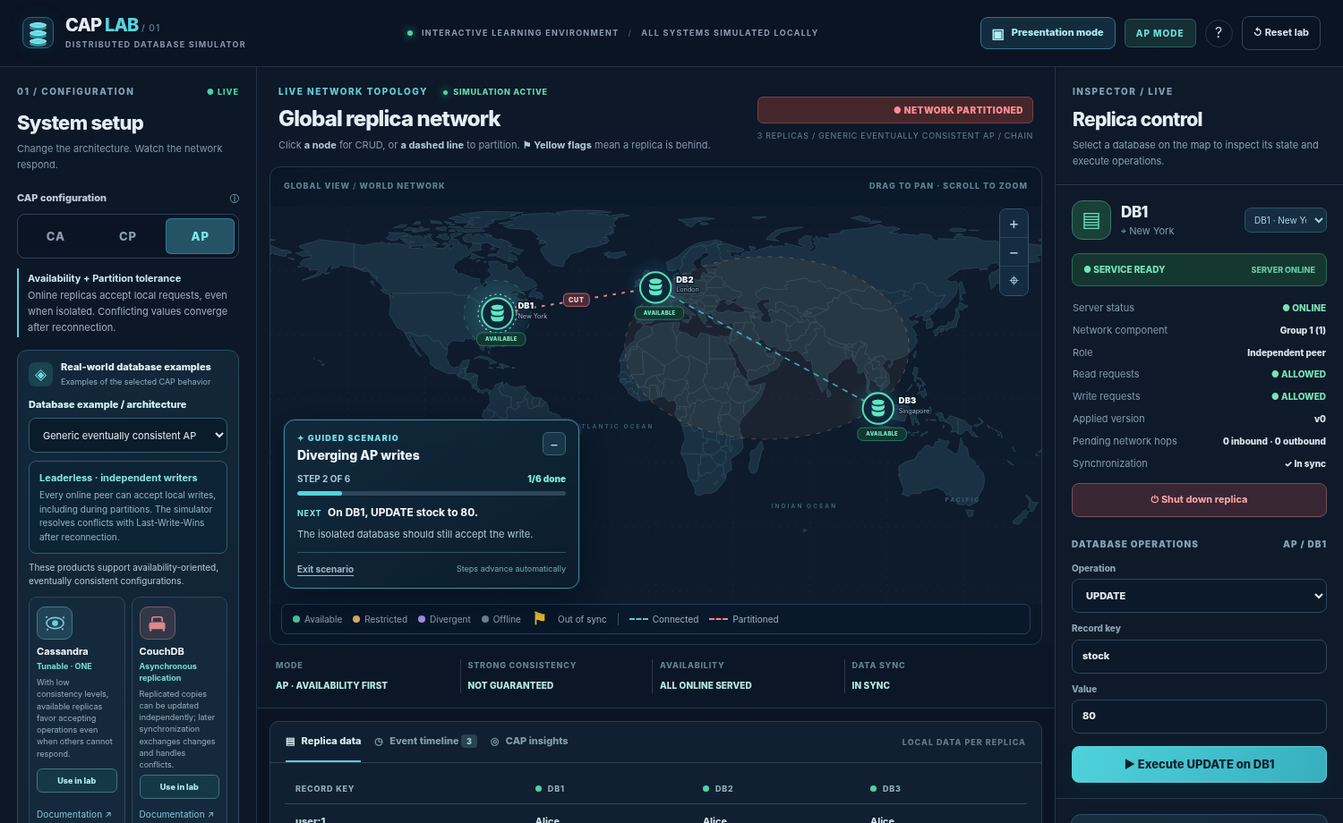
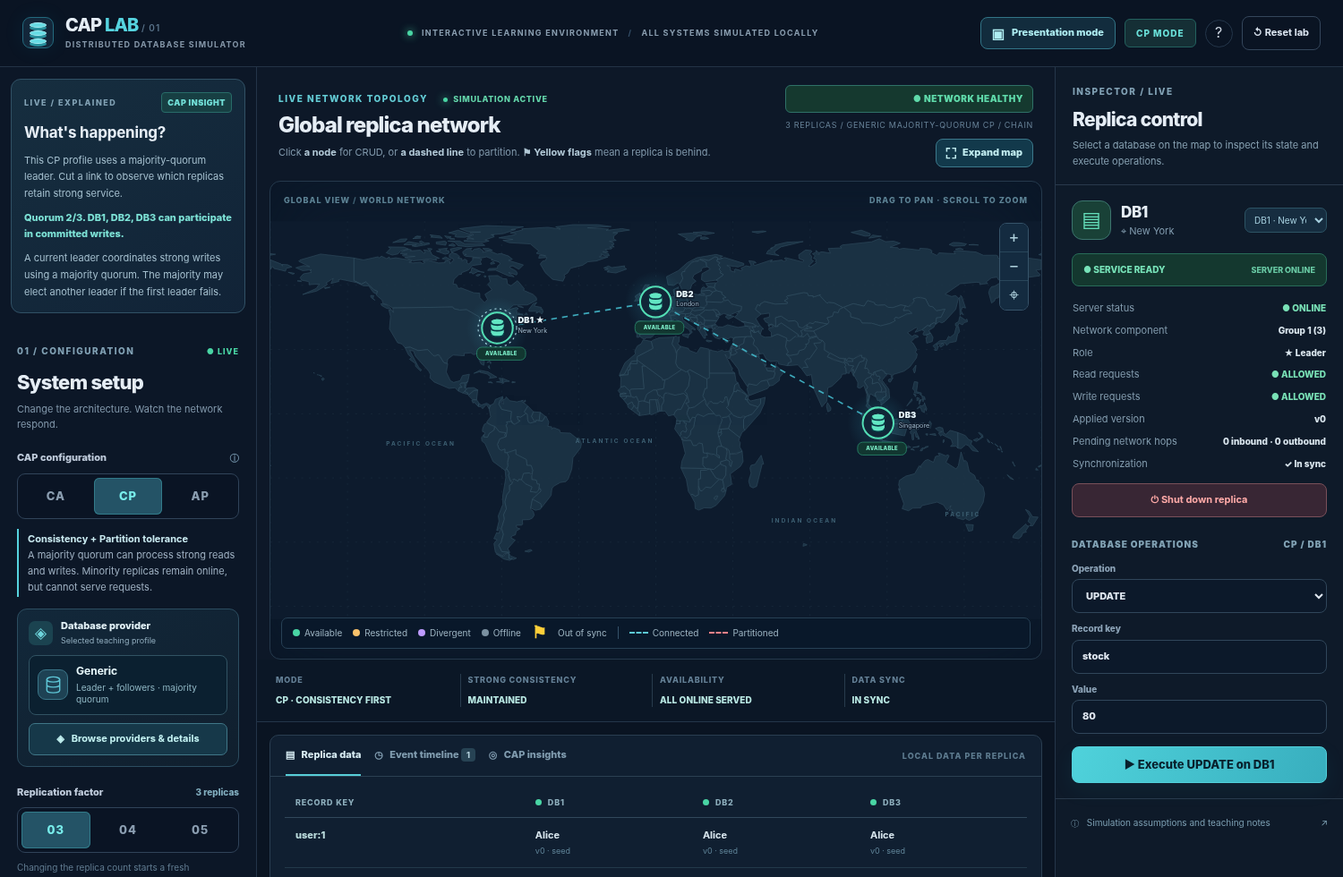
Add files via upload

diff --git a/index.html b/index.html
@@ -155,7 +155,7 @@ body.is-presentation .live-stat strong{font-size:12px}
 a.provider-docs{font-size:10px;color:#84c6db;text-decoration:none}
 a.provider-docs:hover{text-decoration:underline}
 
-/* Guided scenarios are selectable in Presentation Mode. */
+/* v6 — Guided scenarios are selectable in Presentation Mode. */
 .presentation-scenario-controls{display:flex;align-items:center;gap:9px;flex-wrap:wrap;padding-left:12px;border-left:1px solid #31495d}
 .presentation-scenario-controls label{font-size:10px;color:#92b4c6;font-weight:800;letter-spacing:.7px;white-space:nowrap}
 .presentation-scenario-controls .presentation-scenario-select{width:202px;max-width:48vw;min-height:35px;font-size:11px;padding:7px 9px;background:#091827}
@@ -188,7 +188,7 @@ a.provider-docs:hover{text-decoration:underline}
 @media(max-width:460px){.presentation-scenario-controls .presentation-scenario-select{min-width:120px}.presentation-scenario-controls .presentation-scenario-start{padding-left:9px;padding-right:9px}.map-scenario-guide{bottom:65px;max-height:calc(100% - 95px)}}
 @media(prefers-reduced-motion:reduce){.map-guide-track span{transition:none}}
 
-/* Compact, functional provider picker in Presentation Mode. */
+/* v6 — Compact, functional provider picker in Presentation Mode. */
 .presentation-provider-controls{
   display:flex;align-items:center;gap:13px;width:100%;min-width:0;
   padding-top:10px;border-top:1px solid #2c4558;
@@ -219,17 +219,83 @@ a.provider-docs:hover{text-decoration:underline}
   .presentation-provider-items{width:100%;flex-wrap:nowrap;overflow-x:auto;padding-bottom:5px;scrollbar-width:thin}
   .presentation-provider-item{flex:none}
 }
+
+/* Compact provider summary in Exploration; detailed information is shown only on request. */
+.provider-compact{margin-top:13px;padding:12px;}
+.provider-compact .provider-heading{margin-bottom:10px}
+.provider-current{display:flex;align-items:center;gap:9px;padding:9px;border:1px solid #315363;border-radius:8px;background:#0b2030;min-width:0}
+.provider-current-icon{display:flex;flex:none}.provider-current-icon .provider-icon{width:34px;height:34px;min-width:34px;margin:0}
+.provider-current .provider-fallback{height:23px;width:23px}
+.provider-current .provider-logo{width:25px;height:25px;inset:4px}
+.provider-current-copy{min-width:0;flex:1;line-height:1.35}
+.provider-current-copy strong{display:block;font-size:12px;color:#e8f8fb}
+.provider-current-copy span{display:block;font-size:10px;color:#8fb6c3;margin-top:3px;overflow-wrap:anywhere}
+.provider-open-btn{display:block;width:100%;margin-top:9px;min-height:36px;padding:9px 10px;font-size:11px;font-weight:750;text-align:center;border:1px solid #407788;background:#163849;color:#c3f2f2;border-radius:7px;cursor:pointer}
+.provider-open-btn:hover,.presentation-provider-details:hover{background:#21566a;color:#fff;border-color:#66c7d1}
+.presentation-provider-details{flex:none;border:1px solid #3b7889;background:#143748;color:#b6e6ee;border-radius:8px;min-height:36px;padding:6px 11px;font-size:11px;font-weight:800;cursor:pointer}
+.provider-dialog{max-width:840px;max-height:min(88vh,900px);overflow-y:auto;width:calc(100vw - 26px)}
+.provider-dialog-inner{padding:24px}
+.provider-dialog .modal-heading{position:sticky;top:-24px;z-index:2;margin:-24px -24px 15px;padding:15px 24px;background:#112236;border-bottom:1px solid #345467}
+.provider-dialog h2{margin:0 0 6px;font-size:24px}
+.provider-dialog .provider-dialog-intro{margin:0 0 12px}
+.provider-dialog .architecture-note{margin-bottom:17px}
+.provider-dialog-subheading{display:flex;gap:10px;align-items:center;margin-bottom:12px;color:#adccdb;font-size:11px;font-weight:700}
+.provider-dialog .provider-grid{grid-template-columns:repeat(2,minmax(0,1fr));gap:11px}
+.provider-dialog .provider-card{padding:13px;gap:5px}
+.provider-dialog .provider-card strong{font-size:13px}
+.provider-dialog .provider-card-desc{font-size:11px;line-height:1.52;flex:1}
+.provider-dialog .provider-tag{font-size:10px}
+.provider-dialog .provider-card-actions{display:flex;align-items:center;justify-content:space-between;gap:11px;width:100%;padding-top:8px;margin-top:auto;flex-wrap:wrap}
+.provider-dialog .provider-choose{width:auto;min-height:34px;margin:0;padding:8px 10px;font-size:11px}
+.provider-dialog .provider-docs{font-size:11px;white-space:nowrap;margin:0;padding:4px 0}
+.provider-dialog .provider-unavailable{margin:0}
+/* Keep the explanation at the very top of Exploration's left control panel. */
+.left-sidebar>.insight-panel{margin:13px 12px 15px;padding:14px}
+.left-sidebar>.insight-panel h3{font-size:17px}
+.left-sidebar>.insight-panel .eyebrow{font-size:9px}
+/* Map can temporarily fill the viewport in either teaching mode; the lab state is untouched. */
+.map-expand-btn{display:inline-flex;align-items:center;justify-content:center;gap:7px;margin-top:9px;padding:7px 11px;border-radius:8px;border:1px solid #3c788b;background:#12394b;color:#c4eff2;font-size:11px;font-weight:800;cursor:pointer}
+.map-expand-btn:hover{background:#21566a;border-color:#64cfdd}
+.map-expand-btn span:first-child{font-size:16px;line-height:1}
+body.map-expanded{overflow:hidden}
+body.map-expanded .map-panel{position:fixed;inset:10px;z-index:100;display:flex;flex-direction:column;overflow:auto;border:1px solid #4d8092;border-radius:12px;box-shadow:0 0 0 200vmax rgba(0,5,13,.76),0 20px 85px rgba(0,0,0,.8)}
+body.map-expanded .map-panel .map-header{flex:none}
+body.map-expanded .map-panel .presentation-toolbar{display:none!important}
+body.map-expanded .map-stage,body.map-expanded.is-presentation .map-stage{height:auto!important;min-height:235px!important;flex:1 1 auto;margin-bottom:0}
+body.map-expanded .live-strip{flex:none}
+@media(max-width:760px){
+  .provider-dialog-inner{padding:15px}
+  .provider-dialog .modal-heading{top:-15px;margin:-15px -15px 13px;padding:13px 15px}
+  .provider-dialog .provider-grid{grid-template-columns:1fr}
+  .provider-dialog h2{font-size:21px}
+  body.map-expanded .map-panel{inset:5px}
+  body.map-expanded .map-panel .map-header{padding:11px 12px}
+  body.map-expanded .map-panel .map-header h1{font-size:21px}
+  body.map-expanded .map-stage{margin:0 5px}
+}
+@media(max-width:1130px){
+  .map-header{flex-wrap:wrap}
+  .map-header-meta{display:flex;width:100%;gap:8px;align-items:center;justify-content:space-between;text-align:left;flex-wrap:wrap}
+  .map-header-meta .map-expand-btn{margin-top:0}
+}
+@media(max-width:760px){
+  .map-header-meta .topology-label{display:none}
+  .map-header-meta .network-status{font-size:9px}
+}
+@media(prefers-reduced-motion:reduce){.provider-open-btn,.map-expand-btn{transition:none}}
+
 </style>
 </head>
 <body>
 <div class="app-shell">
   <header class="topbar">
-    <div class="brand"><div class="brand-mark" aria-hidden="true"><span></span><span></span><span></span></div><div><div class="brand-title">CAP <span>LAB</span></div><div class="brand-subtitle">DISTRIBUTED DATABASE SIMULATOR</div></div></div>
+    <div class="brand"><div class="brand-mark" aria-hidden="true"><span></span><span></span><span></span></div><div><div class="brand-title">CAP <span>LAB</span><small> / 01</small></div><div class="brand-subtitle">DISTRIBUTED DATABASE SIMULATOR</div></div></div>
     <div class="topbar-center"><span class="live-dot"></span> INTERACTIVE LEARNING ENVIRONMENT <span class="separator">/</span> <span>ALL SYSTEMS SIMULATED LOCALLY</span></div>
     <div class="topbar-actions"><button class="button display-mode-btn" id="displayModeButton" type="button" aria-pressed="false" title="Switch to a larger classroom presentation view"><span class="view-icon" aria-hidden="true">▣</span><span id="displayModeLabel">Presentation mode</span></button><span id="headerMode" class="mode-tag">CP MODE</span><button class="btn-icon" id="helpButton" title="How to use this lab" aria-label="How to use this lab">?</button><button class="button ghost top-reset" id="resetButton">↺ <span>Reset lab</span></button></div>
   </header>
   <div class="workspace">
     <aside class="left-sidebar scroll-area" aria-label="Simulation configuration">
+      <div class="insight-panel"><div class="section-topline"><span class="eyebrow">LIVE / EXPLAINED</span><span class="ai-badge">CAP INSIGHT</span></div><h3>What's happening?</h3><div id="explanation" aria-live="polite"></div></div>
       <div class="panel-section">
         <div class="section-topline"><span class="eyebrow">01 / CONFIGURATION</span><span class="small-status">● LIVE</span></div>
         <h2>System setup</h2><p class="section-help">Change the architecture. Watch the network respond.</p>
@@ -238,15 +304,14 @@ a.provider-docs:hover{text-decoration:underline}
           <button data-mode="CA" class="mode-option">CA</button><button data-mode="CP" class="mode-option active">CP</button><button data-mode="AP" class="mode-option">AP</button>
         </div>
         <div class="mode-description" id="modeDescription"></div>
-        <section class="provider-examples" aria-label="Choose a database example and its replication architecture">
-  <div class="provider-heading"><span class="provider-heading-icon" aria-hidden="true">◈</span><div><strong>Real-world database examples</strong><small>Examples of the selected CAP behavior</small></div></div>
-  <label class="form-label provider-model-label" for="providerSelect">Database example / architecture</label>
-  <select id="providerSelect" class="field provider-select" aria-label="Choose a database teaching profile"></select>
-  <p id="architectureNote" class="architecture-note" aria-live="polite"></p>
-  <p id="providerNote" class="provider-note"></p>
-  <div id="providerCards" class="provider-grid" aria-live="polite"></div>
-  <p class="provider-footnote">Provider profiles are educational approximations, not real database emulators. SQLite is informational only because it has no distributed replicas.</p>
-</section>
+        <section class="provider-examples provider-compact" aria-label="Database teaching profile">
+          <div class="provider-heading"><span class="provider-heading-icon" aria-hidden="true">◈</span><div><strong>Database provider</strong><small>Selected teaching profile</small></div></div>
+          <div class="provider-current" aria-live="polite">
+            <span id="providerCurrentIcon" class="provider-current-icon" aria-hidden="true"></span>
+            <div class="provider-current-copy"><strong id="providerCurrentName">Generic</strong><span id="providerCurrentArch">Replication architecture</span></div>
+          </div>
+          <button id="providerOpenButton" type="button" class="button provider-open-btn" aria-haspopup="dialog" aria-controls="providerDialog">◈ &nbsp; Browse providers &amp; details</button>
+        </section>
         <div class="form-label spaced">Replication factor <span class="form-count" id="replicationCount">3 replicas</span></div>
         <div class="replication-switch" role="group" aria-label="Replication factor"><button data-count="3" class="count-btn active">03</button><button data-count="4" class="count-btn">04</button><button data-count="5" class="count-btn">05</button></div>
         <div class="tiny-note">Changing the replica count starts a fresh experiment.</div>
@@ -285,7 +350,7 @@ a.provider-docs:hover{text-decoration:underline}
     </aside>
     <main class="center-column">
       <section class="map-panel" aria-label="Interactive replica world map">
-        <div class="map-header"><div><div class="eyebrow bright">LIVE NETWORK TOPOLOGY <span class="map-live"><span class="live-dot"></span> SIMULATION ACTIVE</span></div><h1>Global replica network</h1><p>Click <b>a node</b> for CRUD, or <b>a dashed line</b> to partition. <b>⚑ Yellow flags</b> mean a replica is behind.</p></div><div class="map-header-meta"><div id="networkStatus" class="network-status okay">● NETWORK HEALTHY</div><div id="topologyLabel" class="topology-label">3 REPLICAS / CHAIN TOPOLOGY</div></div></div>
+        <div class="map-header"><div><div class="eyebrow bright">LIVE NETWORK TOPOLOGY <span class="map-live"><span class="live-dot"></span> SIMULATION ACTIVE</span></div><h1>Global replica network</h1><p>Click <b>a node</b> for CRUD, or <b>a dashed line</b> to partition. <b>⚑ Yellow flags</b> mean a replica is behind.</p></div><div class="map-header-meta"><div id="networkStatus" class="network-status okay">● NETWORK HEALTHY</div><div id="topologyLabel" class="topology-label">3 REPLICAS / CHAIN TOPOLOGY</div><button id="mapExpandButton" class="map-expand-btn" type="button" aria-pressed="false" title="Expand map to fill the screen"><span id="mapExpandIcon" aria-hidden="true">⛶</span><span id="mapExpandLabel">Expand map</span></button></div></div>
         <div class="presentation-toolbar" aria-label="Presentation quick settings">
           <div class="presentation-quick-controls">
             <div class="presentation-setting"><span class="presentation-setting-label">CAP FAMILY</span><div class="presentation-choice-group" role="group" aria-label="CAP mode in presentation view"><button type="button" data-mode="CA" class="quick-choice">CA</button><button type="button" data-mode="CP" class="quick-choice active">CP</button><button type="button" data-mode="AP" class="quick-choice">AP</button></div></div>
@@ -299,6 +364,7 @@ a.provider-docs:hover{text-decoration:underline}
           <div class="presentation-provider-controls" aria-label="Choose database profile in presentation mode">
             <span class="presentation-provider-title">DATABASE PROVIDER</span>
             <div id="presentationProviderChoices" class="presentation-provider-items" role="group" aria-label="Database teaching profiles"></div>
+            <button id="presentationProviderDetails" type="button" class="presentation-provider-details" aria-haspopup="dialog" aria-controls="providerDialog">ⓘ Details</button>
           </div>
         </div>
         <div class="map-stage" id="mapStage">
@@ -319,13 +385,25 @@ a.provider-docs:hover{text-decoration:underline}
     <aside class="right-sidebar scroll-area" aria-label="Replica operations and CAP explanations">
       <div class="right-header"><div class="eyebrow">INSPECTOR / LIVE</div><h2>Replica control</h2><p>Select a database on the map to inspect its state and execute operations.</p></div>
       <div id="inspector"></div>
-      <div class="insight-panel"><div class="section-topline"><span class="eyebrow">LIVE / EXPLAINED</span><span class="ai-badge">CAP INSIGHT</span></div><h3>What's happening?</h3><div id="explanation" aria-live="polite"></div></div>
+
       <div id="scenarioGuide" class="guide-panel"></div>
       <button id="assumptionsButton" class="assumptions-link">ⓘ &nbsp; Simulation assumptions and teaching notes <span>↗</span></button>
     </aside>
   </div>
 </div>
 <div id="toastHost" class="toast-host" role="status" aria-live="polite"></div>
+<dialog id="providerDialog" class="modal provider-dialog" aria-labelledby="providerDialogTitle">
+  <div class="provider-dialog-inner">
+    <div class="modal-heading"><span class="eyebrow">DATABASE TEACHING PROFILES</span><button id="providerDialogClose" type="button" class="close-dialog" aria-label="Close provider details">✕</button></div>
+    <h2 id="providerDialogTitle">Choose a database example</h2>
+    <p class="provider-dialog-intro">Choose a provider to apply its simplified replication profile, or open the official documentation. These are teaching approximations, not product emulators.</p>
+    <div id="providerDialogCurrent" class="architecture-note" aria-live="polite"></div>
+    <div class="provider-dialog-subheading"><span id="providerDialogFamily" class="mode-tag">CP</span><span>Available examples for the selected CAP family</span></div>
+    <div id="providerCards" class="provider-grid" aria-live="polite"></div>
+    <p id="providerNote" class="provider-footnote"></p>
+    <p class="provider-footnote">SQLite is shown for context only: it is a local embedded database, not a selectable distributed replica model. Real product guarantees depend on configuration.</p>
+  </div>
+</dialog>
 <dialog id="helpDialog" class="modal"><form method="dialog"><div class="modal-heading"><span class="eyebrow">QUICK START / CAP LAB</span><button class="close-dialog" aria-label="Close">✕</button></div><h2>Explore. Partition. Observe.</h2><p>CAP theorem becomes clearer when you deliberately make a distributed database fail.</p><ol class="help-steps"><li><strong>Configure your cluster.</strong><span>Choose 3–5 replicas and a CA, CP, or AP behavior model.</span></li><li><strong>Cut a network connection.</strong><span>Click the dashed link connecting two replica sites. Try cutting several.</span></li><li><strong>Submit a request.</strong><span>Select a replica and attempt an INSERT, UPDATE, DELETE, or READ.</span></li><li><strong>Observe the outcome.</strong><span>Watch packets move between cities. A yellow flag marks replicas that have not yet received the latest data.</span></li><li><strong>Heal the network.</strong><span>Reconnect the links and watch replicas catch up or reconcile conflicts.</span></li><li><strong>Present or explore.</strong><span>Use the top-right view switch for a larger classroom map or the full laboratory. Moving cyan dashes indicate healthy connections; distinct packet dots represent actual simulated messages.</span></li></ol><button class="button primary full" value="close">Start exploring →</button></form></dialog>
 <dialog id="assumptionsDialog" class="modal"><form method="dialog"><div class="modal-heading"><span class="eyebrow">UNDER THE HOOD / MODEL ACCURACY</span><button class="close-dialog" aria-label="Close">✕</button></div><h2>What this simulator models</h2><p>This is a conceptual single-key distributed database, not an implementation of Raft, Paxos, Cassandra, or any production system.</p><div class="assumption-list"><p><b>CAP consistency</b> means linearizability: successful reads do not go backward behind completed writes.</p><p><b>CP</b> uses a simplified majority-quorum leader with committed state. A reachable majority responds; minority components reject requests.</p><p><b>AP</b> permits local operations on every functioning replica and uses deterministic Last-Write-Wins resolution with logical timestamps and tombstones. It can lose an acknowledged update in a conflict.</p><p><b>CA</b> uses an illustrative fixed single primary, similar to an asynchronous primary/standby configuration. A reachable primary continues read/write operations during a partition; isolated followers reject strong requests. Automatic failover is disabled. This preserves consistency for served requests but does not guarantee CAP availability across the partition.</p><p><b>Leaders are architectural choices, not CAP categories.</b> CA shows a primary; CP shows a quorum-elected leader; AP uses independent peers in this lab. SQL Server appears as an asynchronous single-primary teaching model under CA and as an Always On AG synchronous configuration under CP. Actual SQL Server WSFC quorum/failover rules are more complex than this classroom simulation.</p><p><b>Real-world database examples</b> illustrate particular deployments, read/write guarantees, or consistency settings. A product is not permanently CA, CP, or AP in all modes. Local single-server databases avoid distributed CAP trade-offs rather than overcoming partitions.</p><p><b>Server vs. service</b> are different: an online CP minority replica is running, but cannot serve an eligible strongly consistent request.</p><p><b>Network</b> uses a chain of bidirectional links; an offline intermediate node breaks paths. Messages traverse real map edges with geography-weighted, deliberately slowed teaching delays. No measured Internet latency is implied. Replicas remain stale until updates arrive.</p></div><button class="button primary full" value="close">Understood</button></form></dialog>
 <script>
@@ -393,35 +471,51 @@ function renderPresentationProviders(){
  });
 }
 let renderedProviderMode=null;
+function providerIconHtml(id,example){
+  const color=example?.color||'#62cddd';
+  const shape=PROVIDER_ICON_SHAPES[id]||GENERIC_PROVIDER_SHAPE;
+  const logo=example?`<img class="provider-logo" src="https://cdn.jsdelivr.net/gh/devicons/devicon@latest/icons/${example.icon}" alt="" loading="lazy" decoding="async">`:'';
+  return `<span class="provider-icon" style="--provider-color:${color}"><svg class="provider-fallback" aria-hidden="true" viewBox="0 0 48 48">${shape}</svg>${logo}</span>`;
+}
+function activateProviderLogos(container){
+  container.querySelectorAll('img.provider-logo').forEach(img=>{
+    const ready=()=>img.classList.add('loaded');
+    img.addEventListener('load',ready,{once:true});
+    if(img.complete&&img.naturalWidth>0)ready();
+  });
+}
 function renderProviders(){
- const renderKey=`${state.mode}:${state.providerId}`;
- if(renderedProviderMode===renderKey)return;
- renderedProviderMode=renderKey;
- renderPresentationProviders();
- const chosen=selectedProfile();
- $('providerSelect').innerHTML=PROVIDER_PROFILES[state.mode].map(p=>`<option value="${p.id}" ${p.id===chosen.id?'selected':''}>${html(p.name)}</option>`).join('');
- $('architectureNote').innerHTML=`<strong>${html(chosen.architecture)}</strong><span>${html(chosen.summary)}</span>`;
- $('providerNote').textContent=PROVIDER_NOTES[state.mode];
- const cards=$('providerCards');
- cards.innerHTML=PROVIDER_EXAMPLES[state.mode].map(p=>{
-  // Browser fetches an authentic Devicon logo when online; original SVG illustration remains offline.
-  const logo=`https://cdn.jsdelivr.net/gh/devicons/devicon@latest/icons/${p.icon}`;
-  const mark=`<svg class="provider-fallback" aria-hidden="true" viewBox="0 0 48 48">${PROVIDER_ICON_SHAPES[p.id]}</svg>`;
-  return `<div class="provider-card ${p.id===state.providerId?'chosen':''}" aria-label="${html(p.name)}: ${html(p.detail)}">
-   <span class="provider-icon" style="--provider-color:${p.color}">${mark}<img class="provider-logo" src="${logo}" alt="" loading="lazy" decoding="async"></span>
-   <strong>${html(p.name)}</strong>
-   <span class="provider-tag">${html(p.tag)}</span>
-   <span class="provider-card-desc">${html(p.detail)}</span>
-   ${state.mode==='CA'&&p.id==='sqlite'?`<span class="provider-unavailable">Local only · not selectable</span>`:`<button class="provider-choose" type="button" data-provider="${p.id}" ${p.id===state.providerId?'disabled':''}>${p.id===state.providerId?'✓ Selected':'Use in lab'}</button>`}
-   <a class="provider-docs" href="${html(p.url)}" target="_blank" rel="noopener noreferrer">Documentation <span aria-hidden="true">↗</span></a>
-  </div>`;
- }).join('');
- // The teaching lab itself works offline; original illustrative vector marks remain visible.
- cards.querySelectorAll('img.provider-logo').forEach(img=>{
-  const ready=()=>img.classList.add('loaded');
-  img.addEventListener('load',ready,{once:true});
-  if(img.complete&&img.naturalWidth>0)ready();
- });
+  const renderKey=`${state.mode}:${state.providerId}`;
+  if(renderedProviderMode===renderKey)return;
+  renderedProviderMode=renderKey;
+  renderPresentationProviders();
+  const chosen=selectedProfile();
+  const example=PROVIDER_EXAMPLES[state.mode].find(p=>p.id===chosen.id);
+  $('providerCurrentIcon').innerHTML=providerIconHtml(chosen.id,example);
+  $('providerCurrentName').textContent=PRESENTATION_PROVIDER_LABELS[chosen.id]||chosen.name;
+  $('providerCurrentArch').textContent=chosen.architecture;
+  activateProviderLogos($('providerCurrentIcon'));
+  $('providerDialogCurrent').innerHTML=`<strong>Currently selected: ${html(chosen.name)}</strong><span>${html(chosen.architecture)} — ${html(chosen.summary)}</span>`;
+  $('providerDialogFamily').textContent=state.mode;
+  $('providerNote').textContent=PROVIDER_NOTES[state.mode];
+  const cards=$('providerCards');
+  const generic=PROVIDER_PROFILES[state.mode][0];
+  const items=[{id:'generic',name:'Generic teaching model',tag:generic.architecture,detail:generic.summary,color:'#62cddd'},...PROVIDER_EXAMPLES[state.mode]];
+  cards.innerHTML=items.map(p=>{
+   const docs=p.url?`<a class="provider-docs" href="${html(p.url)}" target="_blank" rel="noopener noreferrer" aria-label="Official ${html(p.name)} documentation">Official documentation <span aria-hidden="true">↗</span></a>`:'';
+   const selectable=!(state.mode==='CA'&&p.id==='sqlite');
+   return `<article class="provider-card${p.id===state.providerId?' chosen':''}">
+    ${providerIconHtml(p.id,p.id==='generic'?null:p)}
+    <strong>${html(p.name)}</strong>
+    <span class="provider-tag">${html(p.tag)}</span>
+    <span class="provider-card-desc">${html(p.detail)}</span>
+    <div class="provider-card-actions">
+    ${selectable?`<button class="provider-choose" type="button" data-provider="${p.id}" ${p.id===state.providerId?'disabled':''}>${p.id===state.providerId?'✓ Using in lab':'Use in lab'}</button>`:`<span class="provider-unavailable">Local only · not selectable</span>`}
+    ${docs}
+    </div>
+   </article>`;
+  }).join('');
+  activateProviderLogos(cards);
 }
 
 const SCENARIOS={
@@ -433,11 +527,23 @@ const SCENARIOS={
 };
 let state=null; let nextGeneration=0;
 let displayMode='exploration';
+let mapExpanded=false;
+function setMapExpanded(expanded){
+  mapExpanded=Boolean(expanded);
+  document.body.classList.toggle('map-expanded',mapExpanded);
+  $('mapExpandButton').setAttribute('aria-pressed',String(mapExpanded));
+  $('mapExpandButton').title=mapExpanded?'Restore normal map layout':'Expand map to fill the screen';
+  $('mapExpandLabel').textContent=mapExpanded?'Restore map':'Expand map';
+  $('mapExpandIcon').textContent=mapExpanded?'↙':'⛶';
+}
 let mapGuideCollapsed=false; // View-only setting; never changes replica or scenario state.
 function setDisplayMode(mode){
  if(!['exploration','presentation'].includes(mode))return;
  displayMode=mode;
  document.body.classList.toggle('is-presentation',mode==='presentation');
+  const explainer=document.querySelector('.insight-panel');
+  const target=document.querySelector(mode==='presentation'?'.right-sidebar':'.left-sidebar');
+  if(target.firstElementChild!==explainer)target.prepend(explainer);
  const button=document.getElementById('displayModeButton');
  button.setAttribute('aria-pressed',String(mode==='presentation'));
  button.title=mode==='presentation'?'Return to all lab controls and monitoring panels':'Switch to a larger classroom presentation view';
@@ -824,9 +930,11 @@ function renderScenario(){
 function zoom(factor){state.view.scale=Math.min(3.2,Math.max(1,state.view.scale*factor));if(state.view.scale===1){state.view.x=0;state.view.y=0}applyMapTransform()}
 function mapPanSetup(){const svg=$('worldMap');let drag=null;svg.addEventListener('pointerdown',e=>{if(e.target.closest('[data-link],[data-node]'))return;drag={x:e.clientX,y:e.clientY,oldx:state.view.x,oldy:state.view.y};svg.classList.add('dragging');try{svg.setPointerCapture(e.pointerId)}catch{}});svg.addEventListener('pointermove',e=>{if(!drag)return;const rect=svg.getBoundingClientRect();state.view.x=drag.oldx+(e.clientX-drag.x)*1200/rect.width;state.view.y=drag.oldy+(e.clientY-drag.y)*620/rect.height;applyMapTransform()});const end=()=>{drag=null;svg.classList.remove('dragging')};svg.addEventListener('pointerup',end);svg.addEventListener('pointercancel',end);svg.addEventListener('wheel',e=>{e.preventDefault();zoom(e.deltaY<0?1.13:1/1.13)},{passive:false});}
 function attachListeners(){
- document.addEventListener('click',e=>{const mode=e.target.closest('[data-mode]'),count=e.target.closest('[data-count]'),link=e.target.closest('[data-link]'),node=e.target.closest('[data-node]'),tab=e.target.closest('[data-tab]');if(mode){setMode(mode.dataset.mode);return}const provider=e.target.closest('[data-provider]');if(provider){setProvider(provider.dataset.provider);return}if(count){setCount(count.dataset.count);return}if(link){toggleLink(link.dataset.link);return}if(node){state.selected=node.dataset.node;state.result=null;render();return}if(tab){state.tab=tab.dataset.tab;renderTabs(analyze())}});
+ document.addEventListener('click',e=>{const mode=e.target.closest('[data-mode]'),count=e.target.closest('[data-count]'),link=e.target.closest('[data-link]'),node=e.target.closest('[data-node]'),tab=e.target.closest('[data-tab]');if(mode){setMode(mode.dataset.mode);return}const provider=e.target.closest('[data-provider]');if(provider){const fromDialog=$('providerDialog').open&&$('providerDialog').contains(provider);setProvider(provider.dataset.provider);if(fromDialog)$('providerDialog').close();return}if(count){setCount(count.dataset.count);return}if(link){toggleLink(link.dataset.link);return}if(node){state.selected=node.dataset.node;state.result=null;render();return}if(tab){state.tab=tab.dataset.tab;renderTabs(analyze())}});
  document.addEventListener('keydown',e=>{if((e.key==='Enter'||e.key===' ')&&e.target.matches('[data-node],[data-link]')){e.preventDefault();e.target.click()}});
- $('providerSelect').addEventListener('change',e=>setProvider(e.target.value));
+  $('providerOpenButton').addEventListener('click',()=>$('providerDialog').showModal());
+  $('presentationProviderDetails').addEventListener('click',()=>$('providerDialog').showModal());
+  $('providerDialogClose').addEventListener('click',()=>$('providerDialog').close());
  $('inspector').addEventListener('change',e=>{if(e.target.id==='nodeSelect'){state.selected=e.target.value;state.result=null;render()}if(e.target.id==='operationSelect'){state.formOperation=e.target.value;renderInspector(analyze())}});
  $('inspector').addEventListener('input',e=>{if(e.target.id==='keyInput')state.formKey=e.target.value;if(e.target.id==='valueInput')state.formValue=e.target.value});
  $('inspector').addEventListener('click',e=>{if(e.target.closest('#nodeToggle'))toggleNode(state.selected)});
@@ -839,6 +947,8 @@ function attachListeners(){
  $('mapScenarioGuide').addEventListener('click',e=>{if(e.target.closest('#mapGuideExit')){state.scene=null;renderScenario()}else if(e.target.closest('#mapGuideToggle')){mapGuideCollapsed=!mapGuideCollapsed;renderScenario()}});
  $('zoomIn').addEventListener('click',()=>zoom(1.25));$('zoomOut').addEventListener('click',()=>zoom(1/1.25));$('zoomReset').addEventListener('click',()=>{state.view={scale:1,x:0,y:0};applyMapTransform()});
  $('displayModeButton').addEventListener('click',()=>setDisplayMode(displayMode==='exploration'?'presentation':'exploration'));
+  $('mapExpandButton').addEventListener('click',()=>setMapExpanded(!mapExpanded));
+  document.addEventListener('keydown',e=>{if(e.key==='Escape'&&mapExpanded&&!$('providerDialog').open&&!$('helpDialog').open&&!$('assumptionsDialog').open)setMapExpanded(false)});
  $('helpButton').addEventListener('click',()=>$('helpDialog').showModal());$('assumptionsButton').addEventListener('click',()=>$('assumptionsDialog').showModal());
  mapPanSetup();
 }
@@ -892,8 +1002,8 @@ async function runSelfTests(){
  restart(3,'CP');return summary;
 }
 
-function initialize(){$('presentationScenarioSelect').innerHTML=$('scenarioSelect').innerHTML;buildMapBase();attachListeners();restart();setInterval(tickReplication,45);const params=new URLSearchParams(location.search);if(params.has('selftest')){const pre=document.createElement('pre');pre.id='selftest-results';pre.style.cssText='position:fixed;z-index:9999;top:10px;left:10px;max-width:570px;max-height:75vh;overflow:auto;background:#021019;color:#fff;padding:20px;border:2px solid #38ccba';pre.textContent='Running delayed replication tests…';document.body.append(pre);runSelfTests().then(result=>{pre.textContent=JSON.stringify(result,null,2)}).catch(error=>{pre.textContent=String(error)})}}
-window.CAPLab={setProvider,setDisplayMode,getDisplayMode:()=>displayMode,getScenarioState:()=>({id:state.scene,step:state.sceneStep,total:state.scene?SCENARIOS[state.scene].steps.length:0,collapsed:mapGuideCollapsed}),snapshot:()=>({mode:state.mode,providerId:state.providerId,architecture:selectedProfile().architecture,n:state.n,leader:state.leader,components:analyze().comps,quorum:analyze().quorum,nodes:copy(state.nodes),links:copy(state.links),committed:copy(state.committed)}),reset:()=>restart(),setMode,setCount,toggleLink,toggleNode,performOperation,loadScenario:scenarioLoad,runSelfTests};
+function initialize(){$('presentationScenarioSelect').innerHTML=$('scenarioSelect').innerHTML;buildMapBase();attachListeners();setDisplayMode('exploration');restart();setInterval(tickReplication,45);const params=new URLSearchParams(location.search);if(params.has('selftest')){const pre=document.createElement('pre');pre.id='selftest-results';pre.style.cssText='position:fixed;z-index:9999;top:10px;left:10px;max-width:570px;max-height:75vh;overflow:auto;background:#021019;color:#fff;padding:20px;border:2px solid #38ccba';pre.textContent='Running delayed replication tests…';document.body.append(pre);runSelfTests().then(result=>{pre.textContent=JSON.stringify(result,null,2)}).catch(error=>{pre.textContent=String(error)})}}
+window.CAPLab={setProvider,setDisplayMode,getDisplayMode:()=>displayMode,setMapExpanded,isMapExpanded:()=>mapExpanded,getScenarioState:()=>({id:state.scene,step:state.sceneStep,total:state.scene?SCENARIOS[state.scene].steps.length:0,collapsed:mapGuideCollapsed}),snapshot:()=>({mode:state.mode,providerId:state.providerId,architecture:selectedProfile().architecture,n:state.n,leader:state.leader,components:analyze().comps,quorum:analyze().quorum,nodes:copy(state.nodes),links:copy(state.links),committed:copy(state.committed)}),reset:()=>restart(),setMode,setCount,toggleLink,toggleNode,performOperation,loadScenario:scenarioLoad,runSelfTests};
 initialize();
 
 </script>

diff --git a/README.md b/README.md
@@ -18,7 +18,19 @@ The map occupies most of the screen. Instructors can select **CA / CP / AP**, ad
 
 ![CAP Lab Exploration Mode showing the AP settings, provider profiles, interactive map, guided scenario tooltip, replica inspector, and CRUD controls](assets/cap-lab-exploration.png)
 
-Exploration Mode shows the full controls: architecture and provider information, network links and connected components, per-replica CRUD operations, simulation speed, comparison of stored data, event timeline, and CAP insights.
+Exploration Mode places **LIVE / Explained** at the top of the left sidebar, above the configuration controls. The provider selector stays compact: click **Browse providers & details** to compare architectures, select **Use in lab**, or follow **Official documentation** links. Below are network links, connected components, CRUD operations, simulation speed, replica comparisons, and event history.
+
+### Database provider selection
+
+![Provider details popup with teaching profiles, Use in lab controls, and official documentation links](assets/cap-lab-provider-selection.png)
+
+The provider list no longer occupies a large section of the sidebar. The popup provides context for the active CA/CP/AP family, shows which profile is selected, and distinguishes informational examples from selectable simulation profiles. The same popup can be opened from Presentation Mode using **Details**.
+
+### Expanded map
+
+![CAP Lab expanded world map showing geographically distributed replicas and clickable network connections](assets/cap-lab-expanded-map.png)
+
+Select **Expand map** in the upper-right corner of the network panel for a larger, screen-filling topology. Use **Restore map** (or **Esc**) to return to the usual workspace. This display-only action does not reset the simulation, interrupt replication, or change the selected learning scenario.
 
 ## Features
 
@@ -34,6 +46,9 @@ Exploration Mode shows the full controls: architecture and provider information,
 - **AP leaderless replication** with eventually consistent writes and deterministic conflict reconciliation.
 - **Database teaching profiles** including PostgreSQL, MySQL, SQL Server, etcd, MongoDB, CockroachDB, Spanner, Cassandra, CouchDB, ScyllaDB, and DynamoDB, as appropriate to the selected mode.
 - **Exploration / Presentation views** that preserve active network failures, data, and guided-scenario progress when switched.
+- **Compact provider selector and details popup** with architecture explanations, explicit **Use in lab** actions, and links to official documentation.
+- **Expand / Restore map** to temporarily dedicate most of the screen to the world topology without resetting the experiment.
+- **LIVE / Explained at the top of the Exploration sidebar** for immediate visibility of CAP learning feedback.
 - **Five guided scenarios**, each with an on-map instruction panel that advances as students complete the steps.
 - **Runs locally or on GitHub Pages** with no build step. The app state is local to each browser session.
 
@@ -42,13 +57,14 @@ Exploration Mode shows the full controls: architecture and provider information,
 | Interface area | Purpose |
 | --- | --- |
 | **Header** | Displays the application identity, active CAP mode, a view switch, help, and reset. |
-| **Configuration sidebar** (Exploration) | Choose CA/CP/AP, replication factor (3–5), architecture/provider profile, guided scenarios, and simulation tools. |
-| **World map** | Shows geographic replicas. Click a **database icon** to select a replica; click a **dashed network line** to disconnect or reconnect it. Pan and zoom to inspect the topology. |
+| **Left sidebar, top** (Exploration) | Always-visible **LIVE / Explained** CAP insight panel, followed by CA/CP/AP mode, replication factor (3–5), guided scenarios, and simulation tools. |
+| **Provider selector & popup** | The compact current-provider box opens a modal containing each available teaching profile, a **Use in lab** action, and its official documentation link. |
+| **World map** | Shows geographic replicas. Click a **database icon** to select a replica; click a **dashed network line** to disconnect or reconnect it. Pan, zoom, or choose **Expand map** to view the topology nearly full-screen, then **Restore map**. |
 | **Node and link indicators** | Green = service available; amber = restricted; gray = offline; purple = divergent; **yellow flag** = replica is behind; cyan moving dashes = link connected; red broken dashes = partitioned. |
 | **On-map guided panel** | Shows the active experiment, step number, next instruction, and progress. It can be collapsed. |
 | **Replica inspector** (right) | Inspect server role, availability, synchronization status, and stored records; start/stop a replica or perform CRUD operations. |
 | **Bottom monitoring tabs** (Exploration) | Compare stored values across replicas, follow the event timeline, and read CAP explanations. |
-| **Presentation toolbar** | Compact CAP, replica-count, database-provider, and guided-scenario controls above the enlarged map. |
+| **Presentation toolbar** | Compact CAP, replica-count, database-provider, **Details**, and guided-scenario controls above the enlarged map. |
 
 **Important distinction:** A replica may be *online* yet unable to serve a particular request (for example, a CP replica isolated from the majority). A connected cyan link indicates connectivity; it does not necessarily mean a write is currently transferring. Replication delays are *simulated teaching delays*, not measurements of real-world networks.
 
